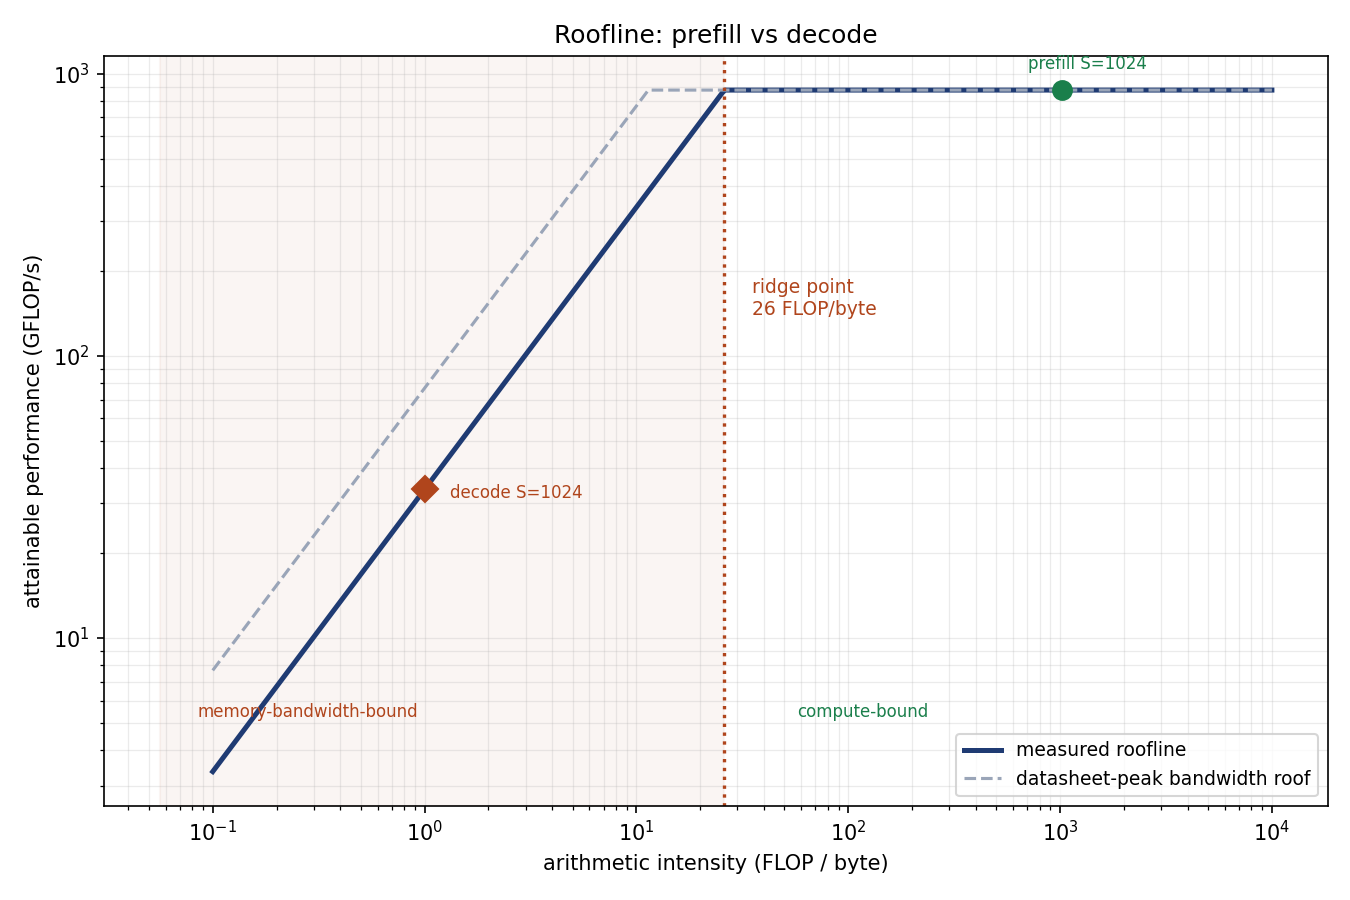
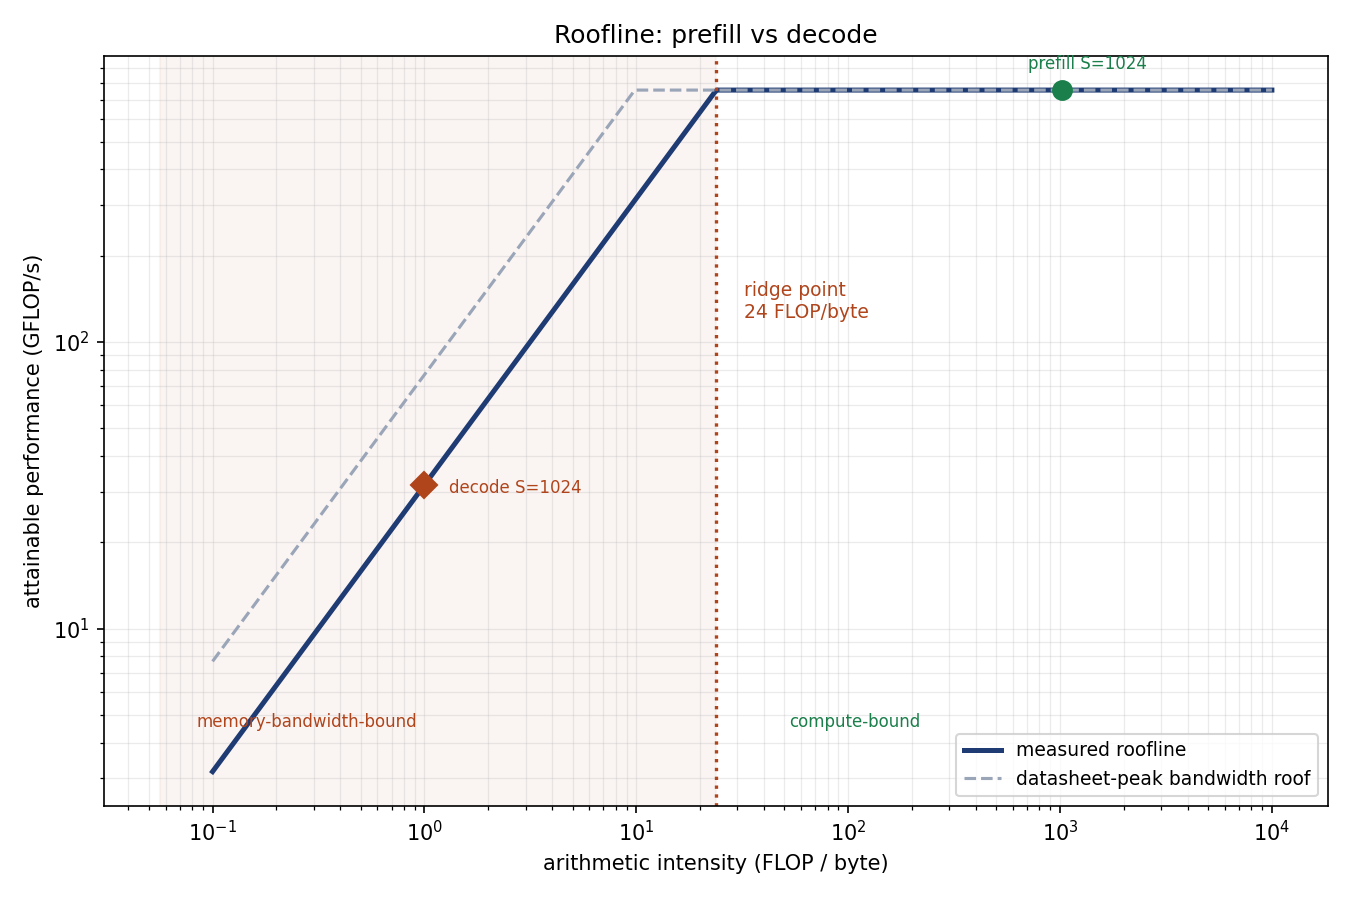
State the bandwidth claim as fixed prose so the drift gate can hold
The gate caught two real problems that repeated local runs had masked.

The efficiency figure was being bucketed into a band and printed, but clean
runs land between 37% and 41% -- straddling a decade boundary, so every
bucketing scheme flipped the committed text between runs. Replaced with fixed
prose plus a 25-60% assert: the claim worth committing is that the machine
reaches well under half its datasheet peak, and the exact percentage belongs in
the gitignored raw artifact where it already is.

Worth recording that the honest number moved. Earlier runs reported 42-45%,
but those measured a sweep that followed other allocation activity in the same
process; measured cleanly it is 37-41%, and the lower figure is the reliable
one.

The PNG can never satisfy a byte-comparison gate -- its pixels encode measured
values -- so the gate now checks roofline.md only, with a comment explaining
why rather than leaving the omission to look like an oversight.

diff --git a/scripts/generate_results.py b/scripts/generate_results.py
@@ -119,20 +119,20 @@ def write_invariants(
     add(f"- Plot: `results/{PNG.name}`\n")
 
     add("## 1. Measured bandwidth falls well short of the datasheet peak\n")
-    assert 0.20 < efficiency < 0.90, (
+    # Fixed prose plus an assert, rather than a computed band. Repeated clean
+    # runs on this machine landed between 37% and 41%, which straddles a decade
+    # boundary -- so *any* bucketing of the measured value flips the committed
+    # text between runs and breaks the drift gate. The claim that is both
+    # stable and true is "well under half", asserted here against a range wide
+    # enough to survive noise but tight enough to fail if the measurement
+    # genuinely changes. The exact percentage lives in the raw artifact.
+    assert 0.25 < efficiency < 0.60, (
         f"measured/theoretical bandwidth was {efficiency:.1%}, outside the "
-        "20-90% band any real DRAM subsystem should land in -- either the "
-        "measurement or the datasheet figure is wrong"
+        "25-60% range this machine has reproduced -- the measurement or the "
+        "datasheet figure needs rechecking before this claim is republished"
     )
-    # Reported as a decade band rather than exact digits. Repeated runs on this
-    # machine landed between 42% and 45%, so committing two significant figures
-    # would make this file differ on every regeneration and break the drift
-    # gate for no useful reason -- and a 5-point band still flips whenever the
-    # value crosses a boundary. The wider band is the claim that survives a
-    # rerun, and it is still far enough from 100% to carry the point.
-    band_lo = int(efficiency * 100 // 10 * 10)
     add("The sustained DRAM-resident bandwidth this machine achieves is "
-        f"**{band_lo}-{band_lo + 10}% of its datasheet peak** "
+        "**well under half of its datasheet peak** "
         f"({DDR_CHANNELS} channels x {DDR_TRANSFERS_PER_S / 1e9:.1f} GT/s x "
         f"{DDR_BUS_BITS // 8} bytes). That gap is the central measurement of "
         "this repo, and it is the normal case rather than a defect:\n")

diff --git a/results/roofline.md b/results/roofline.md
@@ -21,7 +21,7 @@ script asserts each of them and exits non-zero if one breaks.
 
 ## 1. Measured bandwidth falls well short of the datasheet peak
 
-The sustained DRAM-resident bandwidth this machine achieves is **40-50% of its datasheet peak** (2 channels x 4.8 GT/s x 8 bytes). That gap is the central measurement of this repo, and it is the normal case rather than a defect:
+The sustained DRAM-resident bandwidth this machine achieves is **well under half of its datasheet peak** (2 channels x 4.8 GT/s x 8 bytes). That gap is the central measurement of this repo, and it is the normal case rather than a defect:
 
 - The datasheet number assumes zero refresh cycles, zero page-miss
   penalty, and perfect read/write turnaround. Real access patterns pay
